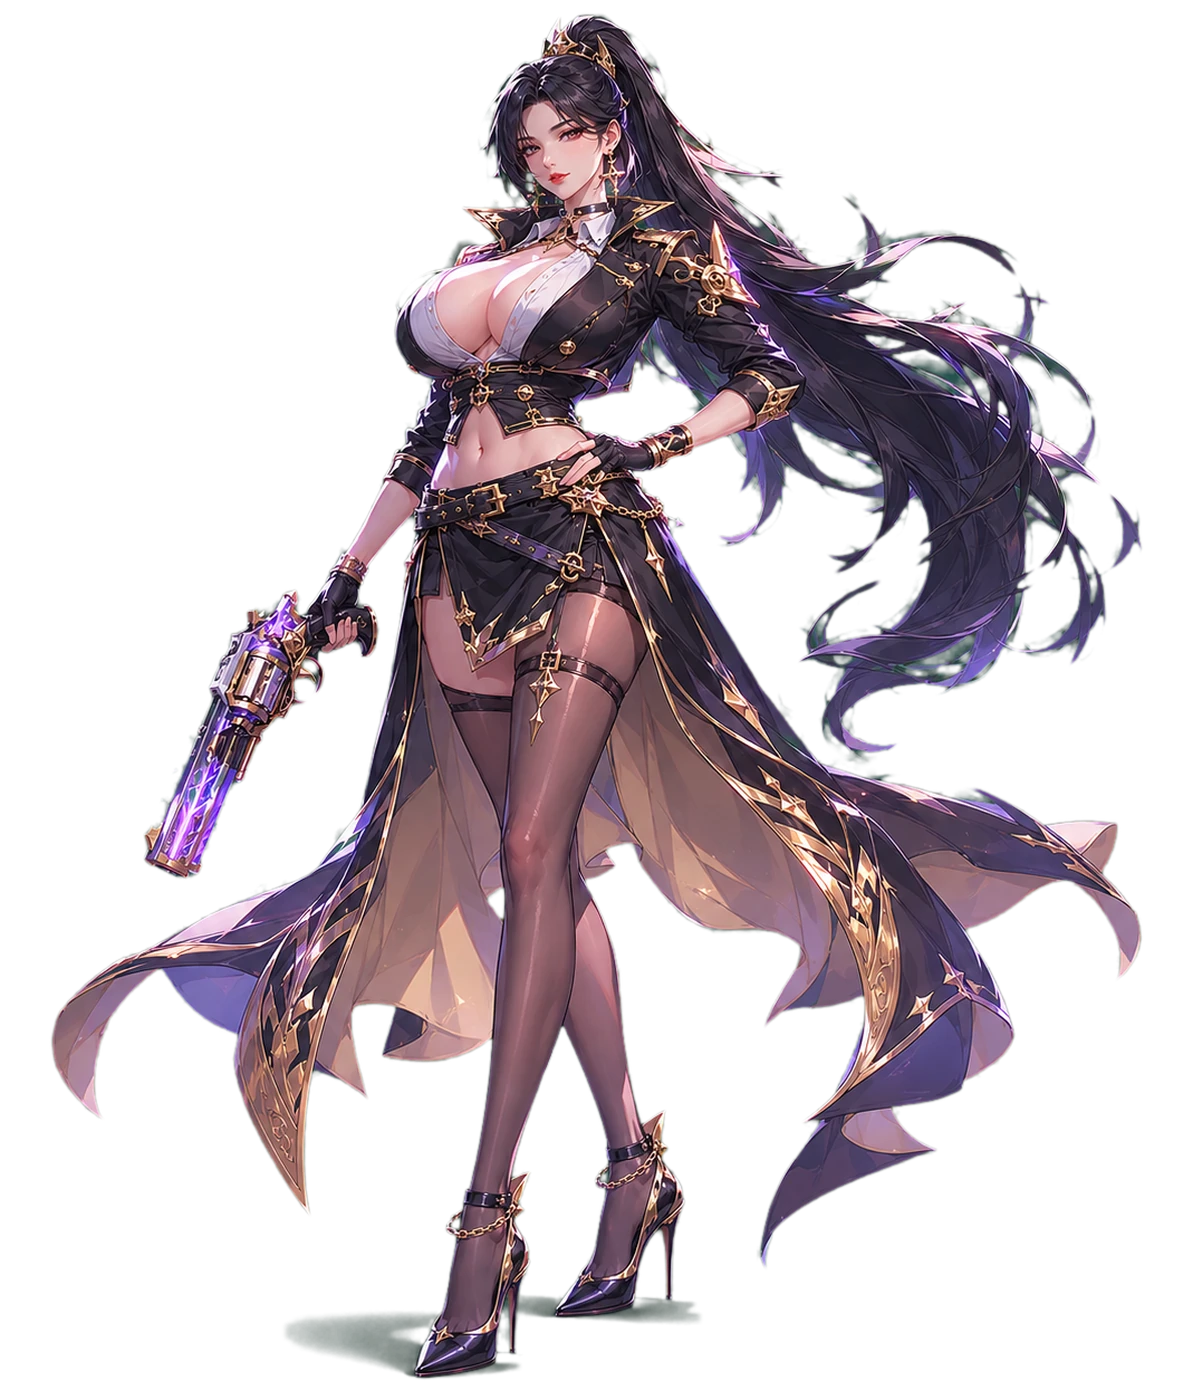
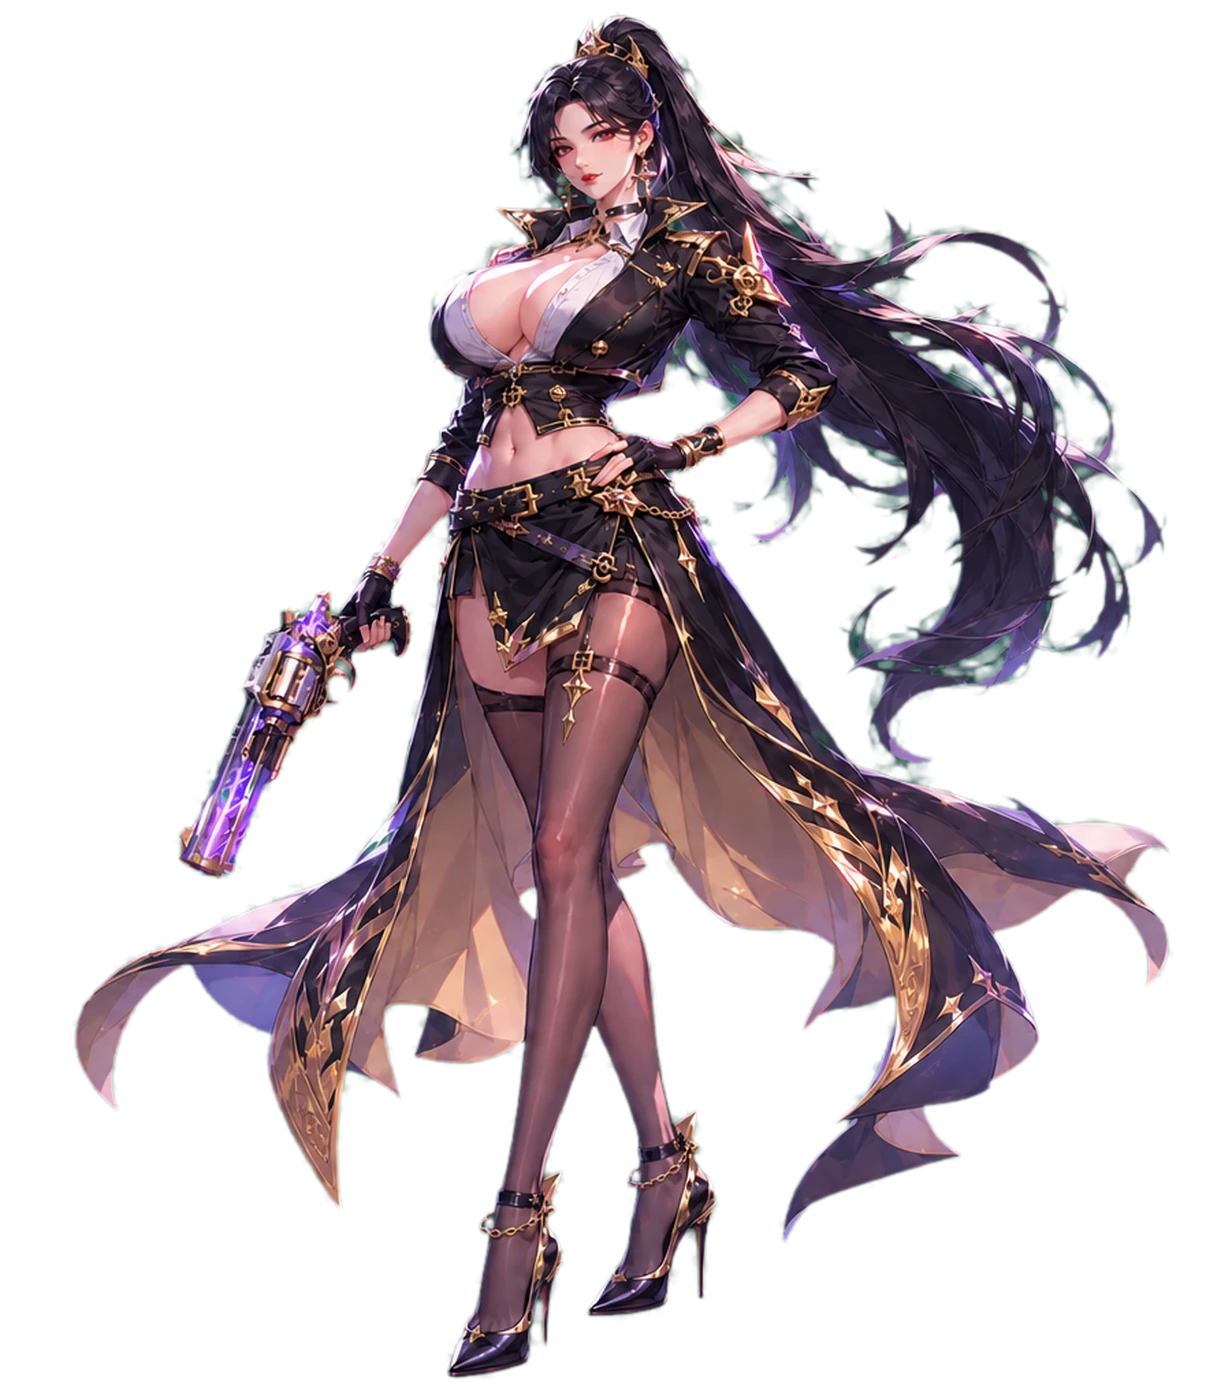
修复人物动画两处问题
1. 消除呼吸动画闪烁：改为真·交叉溶解——当前帧 opacity=1 垫底、
   下一帧用 z-index 压在上方淡入，合成结果始终完全不透明，
   不再出现两帧同时半透明导致背景透出的「一闪一闪」。
2. 修复凌夜 duty 立绘尺寸跳变：原 frame_00 误用了方形原图(1254²)，
   人物比例与生成的呼吸帧不一致。改用一致的两帧重新抠像对齐，
   去掉超大的原图帧，frames 3→2。

Changed region(s): [[0.031, 0.0, 0.9614, 0.9829], [0.7754, 0.7679, 0.8064, 0.7986]]

diff --git a/js/engine/stage.js b/js/engine/stage.js
@@ -159,18 +159,26 @@ class Stage {
 
   reset() { this.hideAll(); this.setParticles(null); this.setTint(null); this.clearDim(); }
 
-  // 设置某角色当前帧的交叉淡入透明度
+  // 真·交叉溶解：当前帧始终不透明垫底，下一帧在其上方淡入（z-index 保证压在上面）。
+  // 这样合成结果始终保持完全不透明，避免「两帧都半透明→背景透出」造成的闪烁。
   _renderFrames(c, p) {
+    const els = c.frameEls;
+    const n = els.length;
+    if (n === 1 || c.playlist.length <= 1) {
+      els.forEach((el, k) => { el.style.opacity = k === 0 ? '1' : '0'; el.style.zIndex = k === 0 ? '2' : '0'; });
+      return;
+    }
     const L = c.playlist.length;
-    if (L === 1 || c.frameEls.length === 1) { c.frameEls.forEach((el, k) => el.style.opacity = k === 0 ? 1 : 0); return; }
     const pos = ((p % L) + L) % L;
     const i = Math.floor(pos);
     const frac = pos - i;
-    const a = c.playlist[i];
-    const b = c.playlist[(i + 1) % L];
-    const w = new Array(c.frameEls.length).fill(0);
-    if (a === b) w[a] = 1; else { w[a] += (1 - frac); w[b] += frac; }
-    c.frameEls.forEach((el, k) => { el.style.opacity = w[k].toFixed(3); });
+    const cur = c.playlist[i];
+    const nxt = c.playlist[(i + 1) % L];
+    els.forEach((el, k) => {
+      if (k === nxt && k !== cur) { el.style.opacity = frac.toFixed(3); el.style.zIndex = '3'; } // 上层：淡入
+      else if (k === cur) { el.style.opacity = '1'; el.style.zIndex = '2'; }                       // 底层：不透明
+      else { el.style.opacity = '0'; el.style.zIndex = '1'; }
+    });
   }
 
   // ---------------- 主循环 ----------------

diff --git a/css/style.css b/css/style.css
@@ -125,7 +125,7 @@ img{display:block;}
 .char.show{opacity:1;}
 .char-inner{position:relative;height:100%;transform-origin:bottom center;will-change:transform;
   transition:filter .4s ease;filter:drop-shadow(0 24px 30px rgba(0,0,0,.5));}
-.char-inner>img.cf{display:block;height:100%;width:auto;pointer-events:none;-webkit-user-drag:none;will-change:opacity;}
+.char-inner>img.cf{display:block;height:100%;width:auto;position:relative;pointer-events:none;-webkit-user-drag:none;will-change:opacity;backface-visibility:hidden;}
 .char-inner>img.cf:not(:first-of-type){position:absolute;top:0;left:0;}
 .char.dim .char-inner{filter:drop-shadow(0 18px 24px rgba(0,0,0,.5)) brightness(.55) saturate(.85);}
 .char.speaking .char-inner{filter:drop-shadow(0 22px 30px rgba(0,0,0,.55)) brightness(1.05);}

diff --git a/js/data/characters.js b/js/data/characters.js
@@ -20,7 +20,7 @@ export const CHARACTERS = {
     color2: '#ffd56b',
     sprite: 'assets/characters/lingye/duty/frame_00.webp',
     outfits: {
-      duty: { label: '夜色执掌', dir: 'assets/characters/lingye/duty', frames: 3, fps: 0.85 },
+      duty: { label: '夜色执掌', dir: 'assets/characters/lingye/duty', frames: 2, fps: 0.85 },
       evening: { label: '酒红晚礼服', dir: 'assets/characters/lingye/evening', frames: 2, fps: 0.8 },
       coat: { label: '微醺私服', dir: 'assets/characters/lingye/coat', frames: 2, fps: 0.8 },
     },
